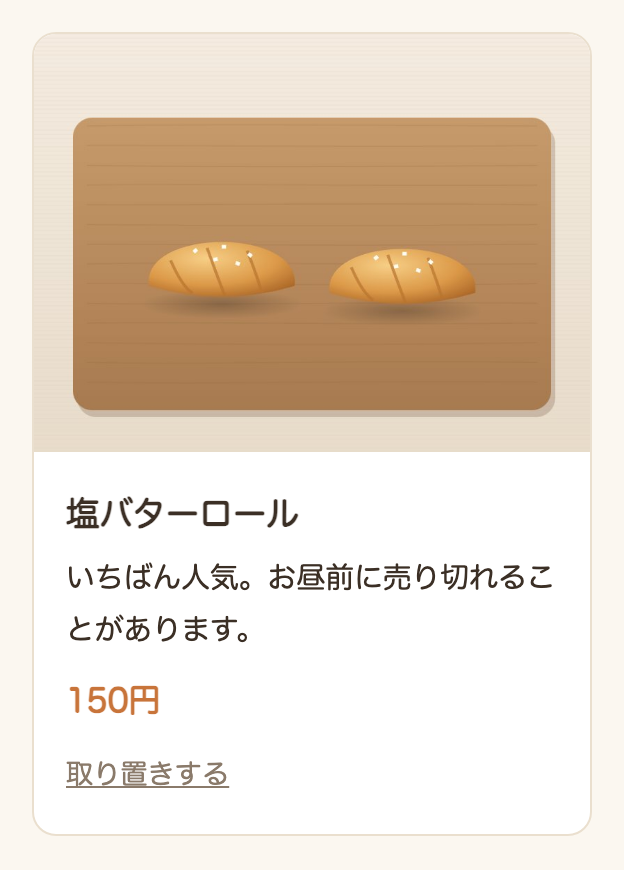
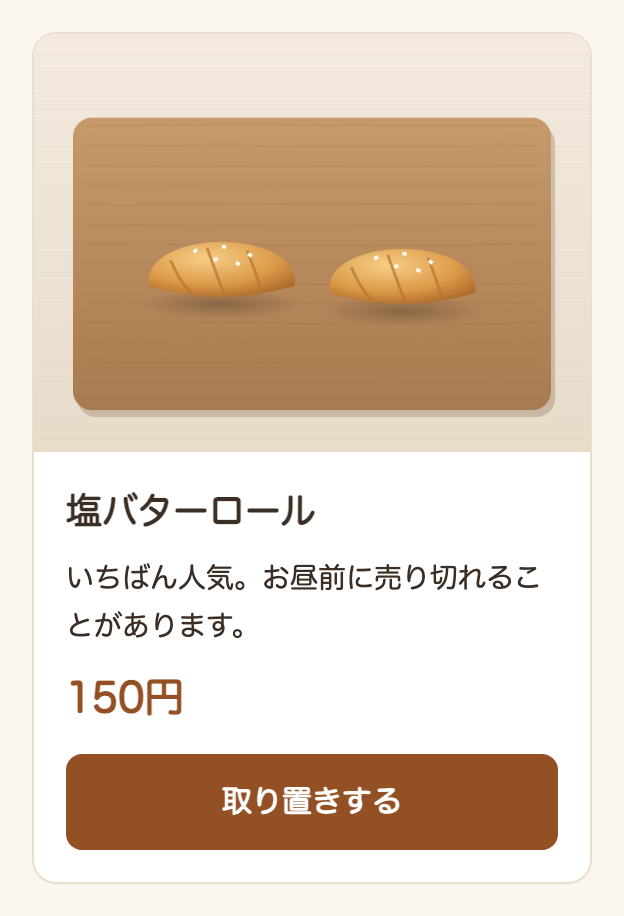
パンのカードを Figma の修正案に合わせる（通常・売り切れ・スマホ幅）
- 取り置きのボタンを幅いっぱい・高さ48px・濃い茶色（#945025）に
- 値段を 20px の太字に、名前を 18px に、説明の行間を 24px にして余白を揃える
- 売り切れは、写真を暗くして「本日売り切れ」の札を重ね、ボタンを「取り置きできません」に
- story の画像を撮り直した

Parry-Commit-Origin: ai_direct (AI送信)
Parry-Purpose: デザイナーが Figma で直したパンのカード（通常・売り切れ・スマホ幅）の見た目に合わせ、押せるボタンと売り切れの状態をお客さまにひと目で伝わるようにするため
Parry-Change-Id: 5d5a7ac8-5865-49e6-b3ec-29c131011dbc

diff --git a/assets/css/style.css b/assets/css/style.css
@@ -3,6 +3,7 @@
   --color-surface: #ffffff;
   --color-text: #3b2f25;
   --color-accent: #c8743a;
+  --color-accent-strong: #945025;
   --color-muted: #8a7a6a;
   --color-line: #eadfce;
 }
@@ -100,6 +101,10 @@ main {
   border-radius: 12px;
 }
 
+.bread-card__photo {
+  position: relative;
+}
+
 .bread-card__photo img {
   display: block;
   width: 100%;
@@ -107,12 +112,37 @@ main {
   object-fit: cover;
 }
 
+/* 売り切れの写真は暗くして、中央に札を重ねる */
+.is-sold-out .bread-card__photo::after {
+  content: "";
+  position: absolute;
+  inset: 0;
+  background: rgba(59, 47, 37, 0.48);
+}
+
+.bread-card__sold-badge {
+  position: absolute;
+  top: 50%;
+  left: 50%;
+  z-index: 1;
+  padding: 0 40px;
+  transform: translate(-50%, -50%);
+  background: var(--color-text);
+  border-radius: 999px;
+  color: #fff;
+  font-size: 1rem;
+  font-weight: bold;
+  line-height: 40px;
+  white-space: nowrap;
+}
+
 .bread-card__body {
-  padding: 12px 16px 16px;
+  padding: 18px 16px 16px;
 }
 
 .bread-card__badge {
   display: inline-block;
+  margin-bottom: 4px;
   padding: 0 8px;
   font-size: 0.75rem;
   color: var(--color-accent);
@@ -121,35 +151,52 @@ main {
 }
 
 .bread-card__name {
-  margin: 4px 0;
-  font-size: 1.05rem;
+  margin: 0 0 11px;
+  font-size: 1.125rem;
+  line-height: 22px;
 }
 
 .bread-card__desc {
-  margin: 0 0 8px;
-  font-size: 0.9rem;
+  margin: 0 0 11px;
+  font-size: 0.875rem;
+  line-height: 24px;
 }
 
 .bread-card__price {
-  margin: 0 0 8px;
-  color: var(--color-accent);
+  margin: 0 0 17px;
+  color: var(--color-accent-strong);
+  font-size: 1.25rem;
   font-weight: bold;
+  line-height: 24px;
+}
+
+.is-sold-out .bread-card__price {
+  margin-bottom: 12px;
 }
 
 .bread-card__status {
-  margin: 0 0 8px;
-  font-size: 0.8rem;
-  color: var(--color-muted);
+  margin: 0 0 16px;
+  font-size: 0.8125rem;
+  line-height: 16px;
 }
 
 .bread-card__reserve {
-  font-size: 0.85rem;
-  color: var(--color-muted);
+  display: block;
+  height: 48px;
+  background: var(--color-accent-strong);
+  border-radius: 8px;
+  color: #fff;
+  font-size: 0.9375rem;
+  font-weight: bold;
+  line-height: 48px;
+  text-align: center;
+  text-decoration: none;
 }
 
 .bread-card__reserve[aria-disabled="true"] {
+  background: var(--color-line);
+  color: var(--color-text);
   pointer-events: none;
-  text-decoration: none;
 }
 
 /* 取り置きの案内 */

diff --git a/src/components/BreadCard.js b/src/components/BreadCard.js
@@ -12,13 +12,14 @@
  * @returns {string}
  */
 export function BreadCard({ name, description, price, image, badge, soldOut = false }) {
+  const soldOutBadge = soldOut ? '<span class="bread-card__sold-badge">本日売り切れ</span>' : '';
   const photo = image
-    ? `<div class="bread-card__photo"><img src="${image}" alt="${name}"></div>`
+    ? `<div class="bread-card__photo"><img src="${image}" alt="${name}">${soldOutBadge}</div>`
     : '';
   const badgeHtml = badge ? `<span class="bread-card__badge">${badge}</span>` : '';
   const status = soldOut ? '<p class="bread-card__status">本日は売り切れました</p>' : '';
   const reserve = soldOut
-    ? '<a class="bread-card__reserve" aria-disabled="true">取り置きする</a>'
+    ? '<a class="bread-card__reserve" aria-disabled="true">取り置きできません</a>'
     : '<a class="bread-card__reserve" href="#reserve">取り置きする</a>';
 
   return `<article class="bread-card${soldOut ? ' is-sold-out' : ''}">
